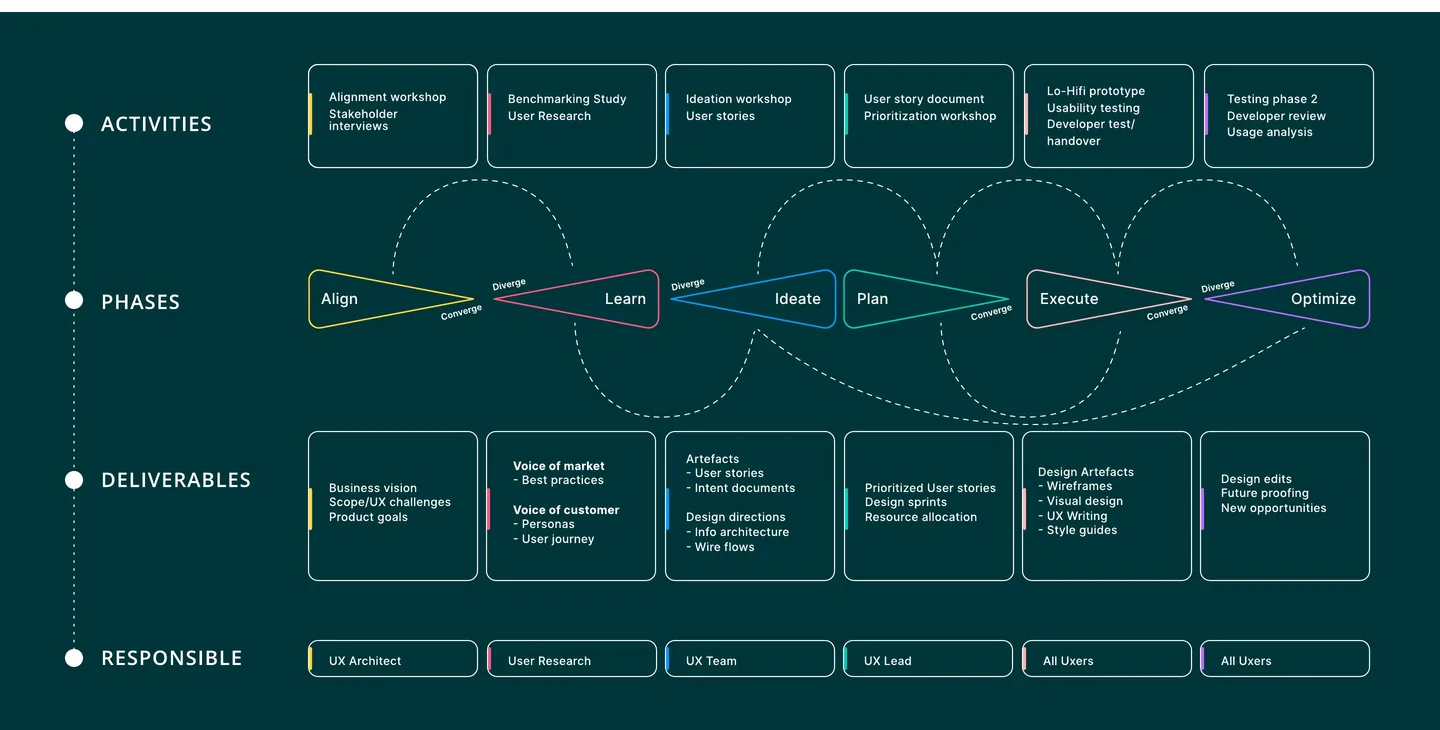
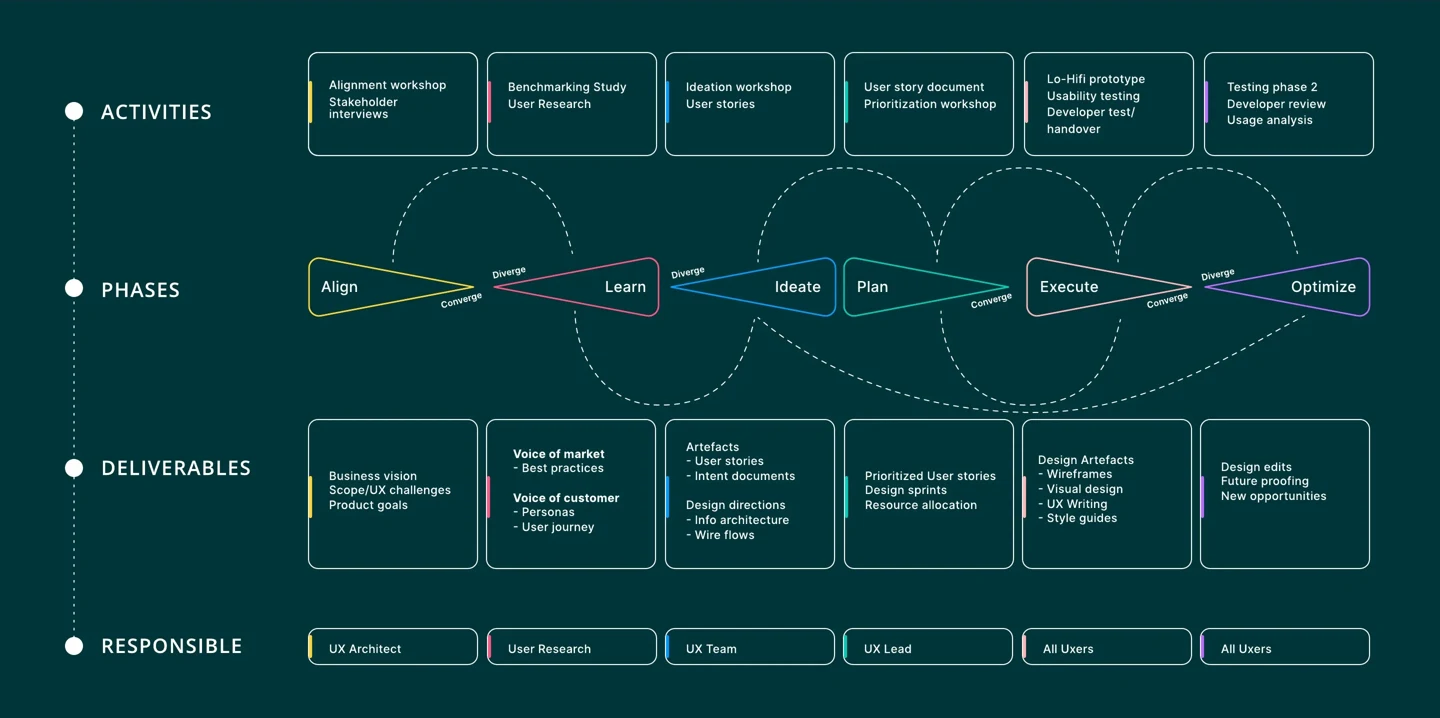
Portico: crop white band off phases diagram and rounded white corners off cover
Claude-Session: https://claude.ai/code/session_01BUxMAEjCuThU2tE9gbjKNJ

diff --git a/projects/topsource-portico-hrms/index.html b/projects/topsource-portico-hrms/index.html
@@ -73,7 +73,7 @@
 
   <figure class="mt-16 lg:mt-24">
         <a href="../../assets/img/projects/topsource-portico-hrms/cover-full.webp" class="block overflow-hidden rounded-lg bg-surface" aria-label="Open full size: The redesigned Portico dashboard on a laptop and the Portico mobile app on a phone">
-          <img src="../../assets/img/projects/topsource-portico-hrms/cover-1440.webp" srcset="../../assets/img/projects/topsource-portico-hrms/cover-1440.webp 1440w, ../../assets/img/projects/topsource-portico-hrms/cover-full.webp 2280w" sizes="(min-width: 1440px) 1440px, 100vw" width="2280" height="800" alt="The redesigned Portico dashboard on a laptop and the Portico mobile app on a phone" loading="lazy" class="h-auto w-full">
+          <img src="../../assets/img/projects/topsource-portico-hrms/cover-1440.webp" srcset="../../assets/img/projects/topsource-portico-hrms/cover-1440.webp 1440w, ../../assets/img/projects/topsource-portico-hrms/cover-full.webp 2192w" sizes="(min-width: 1440px) 1440px, 100vw" width="2192" height="712" alt="The redesigned Portico dashboard on a laptop and the Portico mobile app on a phone" loading="lazy" class="h-auto w-full">
         </a>
         <figcaption class="mt-3 text-xs text-mist-500">Portico: human resource and payroll management, on the web and on the phone.</figcaption>
       </figure>
@@ -127,7 +127,7 @@
     </section>
     <figure class="">
         <a href="../../assets/img/projects/topsource-portico-hrms/phases-2880.webp" class="block overflow-hidden rounded-lg bg-surface ring-1 ring-mist-800" aria-label="Open full size: Diagram of six project phases, Align, Learn, Ideate, Plan, Execute and Optimize, with the activities, deliverables and owners of each">
-          <img src="../../assets/img/projects/topsource-portico-hrms/phases-1440.webp" srcset="../../assets/img/projects/topsource-portico-hrms/phases-1440.webp 1440w, ../../assets/img/projects/topsource-portico-hrms/phases-2880.webp 2880w" sizes="(min-width: 1440px) 1440px, 100vw" width="2880" height="1460" alt="Diagram of six project phases, Align, Learn, Ideate, Plan, Execute and Optimize, with the activities, deliverables and owners of each" loading="lazy" class="h-auto w-full">
+          <img src="../../assets/img/projects/topsource-portico-hrms/phases-1440.webp" srcset="../../assets/img/projects/topsource-portico-hrms/phases-1440.webp 1440w, ../../assets/img/projects/topsource-portico-hrms/phases-2880.webp 2880w" sizes="(min-width: 1440px) 1440px, 100vw" width="2880" height="1436" alt="Diagram of six project phases, Align, Learn, Ideate, Plan, Execute and Optimize, with the activities, deliverables and owners of each" loading="lazy" class="h-auto w-full">
         </a>
         <figcaption class="mt-3 text-xs text-mist-500">From definition to delivery: activities, deliverables and owners for each phase.</figcaption>
       </figure>
